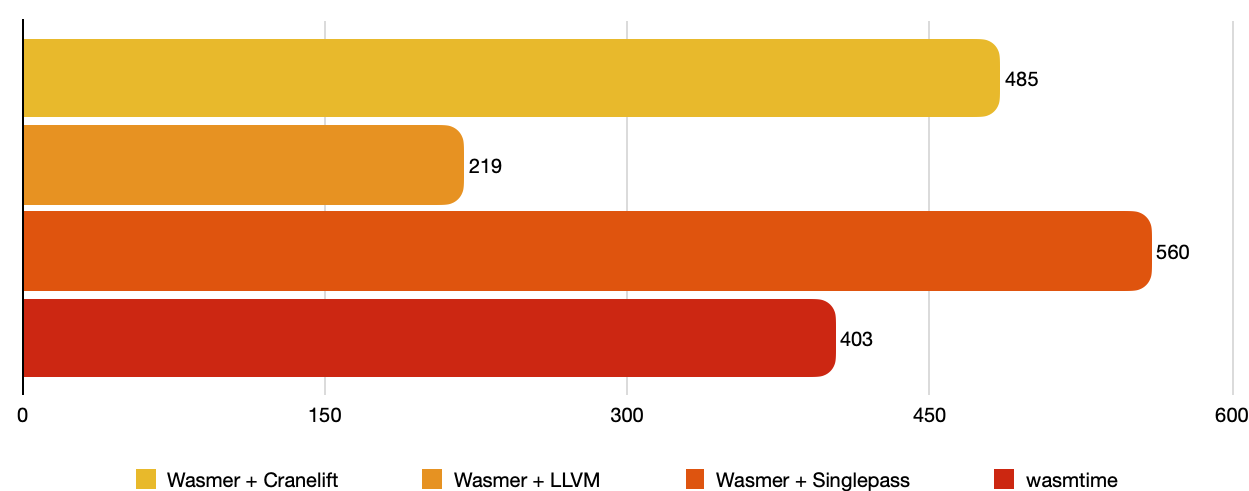
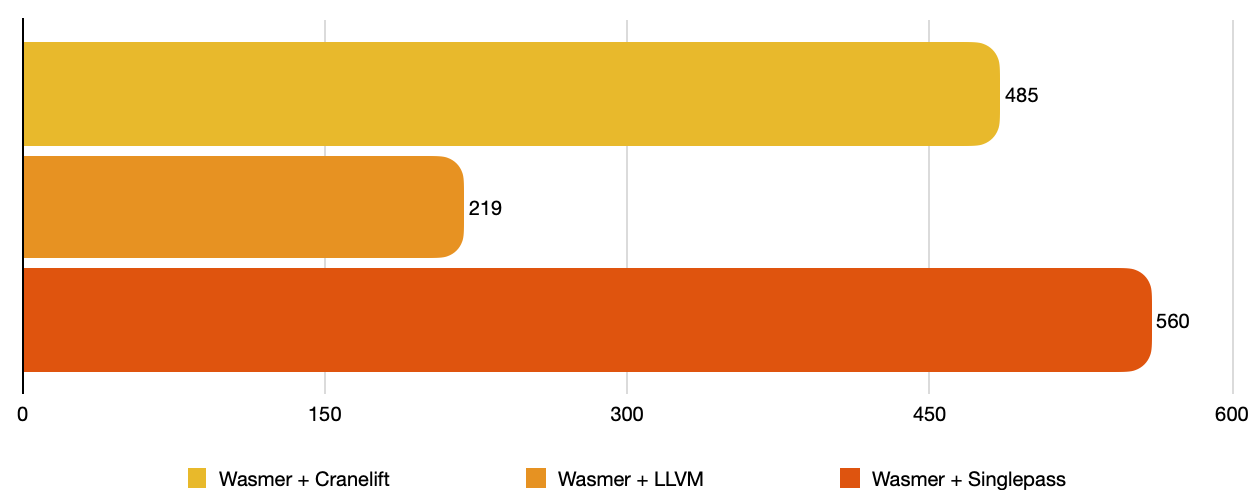
blog: Simplify benchmarks.

diff --git a/_posts/wasmer-python-embedding-1.0.md b/_posts/wasmer-python-embedding-1.0.md
@@ -1,6 +1,6 @@
 ---
 title: 'Wasmer Python embedding 1.0'
-excerpt: 'After the release of Wasmer 1.0, we are thrilled to announce the immediate availability of the Wasmer Python embedding 1.0 version...'
+excerpt: 'Announcing the immediate availability of the Wasmer Python embedding 1.0 version!'
 # coverImage: '/public/images/blog/wasmer-python-embedding-1.0/cover.jpg'
 date: '2021-01-21T15:35:07.322Z'
 author: Ivan Enderlin
@@ -157,24 +157,14 @@ now. To do that, we have fetch the size of the:
 * `wasmer` wheel alone (with headless engines),
 * `wasmer` + `wasmer-compiler-singlepass` wheels,
 * `wasmer` + `wasmer-compiler-cranelift` wheels,
-* `wasmer` + `wasmer-compiler-llvm` wheels,
-* [`wasmtime`](https://github.com/bytecodealliance/wasmtime-py) wheel,
-  to see how we compare with versus another runtime.
-
-Why `wasmtime` specifically? Because it is written by the authors of
-[Cranelift](https://github.com/bytecodealliance/wasmtime/tree/main/cranelift),
-which is a project we also use to write our
-`wasmer-compiler-cranelift` compiler. And because other competitors
-like [WAVM](https://github.com/WAVM/WAVM) or
-[Lucet](https://github.com/bytecodealliance/lucet) do not have Python
-embeddings.
+* `wasmer` + `wasmer-compiler-llvm` wheels.
 
 We have computed those sizes for 3 platforms (macOS, Linux, and
 Windows) and 2 architectures (`amd64` and `aarch64`). (On Linux
 `aarch64`, the `wasmer-compiler-singlepass` wheel is missing because
-it does not support (yet) `aarch64`. The `wasmtime` wheel is also
-absent. On Windows `amd64`, the `wasmer-compiler-llvm` wheel is
-missing due to a temporary issue, it should be fixed quickly.)
+it does not support (yet) `aarch64`. On Windows `amd64`, the
+`wasmer-compiler-llvm` wheel is missing due to a temporary issue, it
+should be fixed quickly.)
 
 The results are presented in the following graph:
 
@@ -188,14 +178,7 @@ The results are presented in the following graph:
 On average, the `wasmer` wheel has a size of 1.4Mb; the `wasmer` +
 `wasmer-compiler-singlepass` wheels have a size of 2Mb; the
 `wasmer` + `wasmer-compiler-cranelift` wheels have a size of 2.8Mb;
-the `wasmer` + `wasmer-compiler-llvm` wheels have a size of 13Mb; the
-`wasmtime` wheel has a size of 4Mb.
-
-`wasmtime` provides _larger_ wheels than `wasmer` as a standalone
-package, or combined with any compilers, except the LLVM one.
-
-`wasmer` as a standalone package is on average 2.9 times smaller than
-`wasmtime`.
+the `wasmer` + `wasmer-compiler-llvm` wheels have a size of 13Mb.
 
 ### Improved and simplified API
 
@@ -474,64 +457,50 @@ and 4Gb of memory; the host has an Intel Xeon CPU (3.10Ghz). It’s not
 really important for what we are going to illustrate.
 
 So first, let’s compile the 2.4Mb `qjs.wasm` WebAssembly module with
-our Singlepass, Cranelift and LLVM compilers. And let’s invite
-`wasmtime` in the party, because the more the merrier. Times are given
-in microseconds (μs).
+our Singlepass, Cranelift and LLVM compilers. Times are given in
+microseconds (μs).
 
 <figure>
   <a href="/images/blog/wasmer-python-embedding-1.0/graph-compilation.png" target="_blank" title="Open the image at full size">
     <img src="/images/blog/wasmer-python-embedding-1.0/graph-compilation.png" />
   </a>
   <figcaption>Create a <code>Module</code> with the JIT engine + the
-  Cranelift, LLVM and Singlepass compilers, and with
-  <code>wasmtime</code> (in μs).</figcaption>
+  Cranelift, LLVM and Singlepass compilers (in μs).</figcaption>
 </figure>
 
 The results are the following. `wasmer` with the Singlepass compiler
 is the fastest to compile `qjs.wasm` in 102ms. `wasmer` with the
-Cranelift compiler is the second in 295ms. Then, `wasmtime` in 1510ms
-(1.5sec), and finally `wasmer` with the LLVM compiler in 5252ms
-(5sec).
+Cranelift compiler is the second in 295ms. Finally `wasmer` with the
+LLVM compiler in 5252ms (5sec).
 
 We can’t conclude anything based on that, except that if a compiler
 takes time, it’s likely because it optimises the generated code
 heavily, which could mean that the execution time will be improved.
-
-It’s interesting to notice that `wasmer-compiler-cranelift` and
-`wasmtime` both use Cranelift as the compiler backend, but the
-compilation time varies a lot: `wasmer` is 5 times faster in this
-case.
 
 Because it’s expensive to compile a module into executable code, we
 want to cache it. And compilation should ideally be always done
 once. So let’s measure how long it takes to get a `Module` from a
 pre-compiled WebAssembly module. We want to see if there is a
 difference between a module that has been compiled with the
-Singlepass, Cranelift or LLVM compiler, and `wasmtime` too. We are
-going to use a headless engine here, so the `wasmer` package alone
-with no compiler.
+Singlepass, Cranelift or LLVM compiler. We are going to use a headless
+engine here, so the `wasmer` package alone with no compiler.
 
 <figure>
   <a href="/images/blog/wasmer-python-embedding-1.0/graph-headless.png" target="_blank" title="Open the image at full size">
     <img src="/images/blog/wasmer-python-embedding-1.0/graph-headless.png" />
   </a>
   <figcaption>Create a <code>Module</code> with the JIT headless
-  engine (module is pre-compiled), and with <code>wasmtime</code> (in
-  μs).</figcaption>
+  engine (module is pre-compiled) (in μs).</figcaption>
 </figure>
 
 The results are the following. `wasmer` with the LLVM compiler is the
 fastest to rebuild a `Module` from a pre-compiled module in 9.8ms,
 following by  — head-to-head — `wasmer` with the Cranelift and the
-Singlepass compilers in 11.5ms. Finally, `wasmtime` rebuilds a
-`Module` from a pre-compiled module in 17.4ms.
+Singlepass compilers in 11.5ms.
 
 That result is interesting. LLVM is the slower compiler to compile a
 WebAssembly module, but once compiled it’s faster to load the module!
 That’s a good news.
-
-`wasmer` in on average 1.6 times faster than `wasmtime` to rebuild a
-`Module` from a pre-compiled module; 1.8 times in the case of LLVM.
 
 Take a breath. Up to now, we have successfully compiled `qjs.wasm` to
 executable code. So let’s use it! As we said, we are going to execute
@@ -544,33 +513,30 @@ test. Let’s see how they perform.
   </a>
   <figcaption>Executing <code>console.log("hello")</code> with
   <code>qjs.wasm</code>, compiled with the Cranelift, LLVM and
-  Singlepass compilers and with <code>wasmtime</code> (in
-  μs).</figcaption>
+  Singlepass compilers (in μs).</figcaption>
 </figure>
 
-First, both `wasmer` and `wasmtime` were successfully able to print
-`hello` on the standard output. This string was printed by JavaScript,
-through WebAssembly, inside Python. How fun is that :-)?
+First, `wasmer` is successfully able to print `hello` on the standard
+output. This string was printed by JavaScript, through WebAssembly,
+inside Python. How fun is that :-)?
 
 Second, we see interesting results. `wasmer` with the LLVM compiler is
 by far the faster to execute `qjs.wasm`. It was compile-time well
 spent! It prints `hello` in JavaScript in 0.219ms. `wasmer` with the
-Cranelift compiler prints `hello` in 0.485ms, which is a little bit
-slower than what `wasmtime` offers in this case. Finally, `wasmer`
-with the Singlepass compiler prints `hello` in 0.560ms. It’s very
-likely that a more computation intensive test would uncover the
-difference between Cranelift and Singlepass deeper.
-
-`wasmer` with LLVM is 1.8 times faster than `wasmtime` in this case.
+Cranelift compiler prints `hello` in 0.485ms. Finally, `wasmer` with
+the Singlepass compiler prints `hello` in 0.560ms. It’s very likely
+that a more computation intensive test would uncover the difference
+between Cranelift and Singlepass deeper.
 
 This benchmark confirms what we said earlier:
 
 * The Singlepass compiler provides a fast compilation but a slower
-  execution,
+  execution, which can be perfect for small/simple WebAssembly
+  modules,
 * The Cranelift compiler provides a good balance between compilation
   and execution time,
 * The LLVM compiler provides a slow but optimised compilation, and a
-  very fast execution.
+  very fast execution, which is perfect for complex WebAssembly modules.
 
 The fact that `wasmer` comes with headless engines (with no compiler)
 is helpful, as rebuilding a `Module` from a pre-compiled module is
